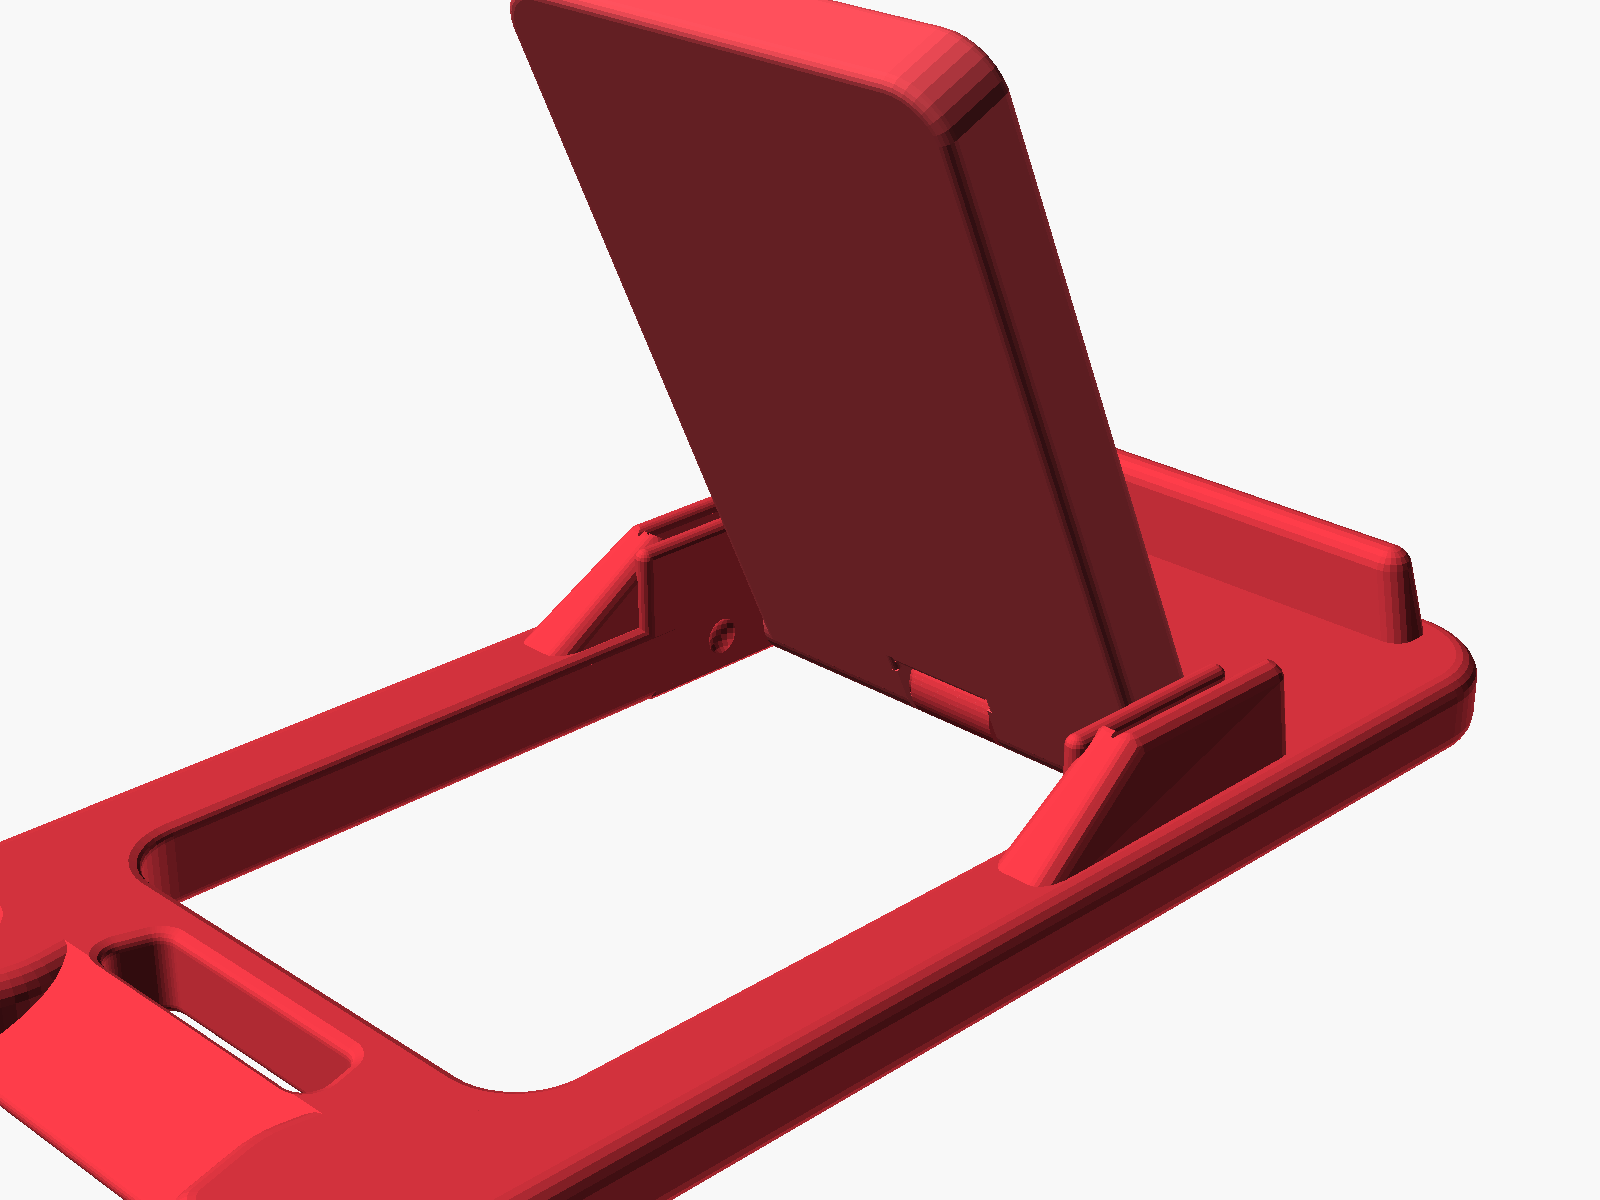
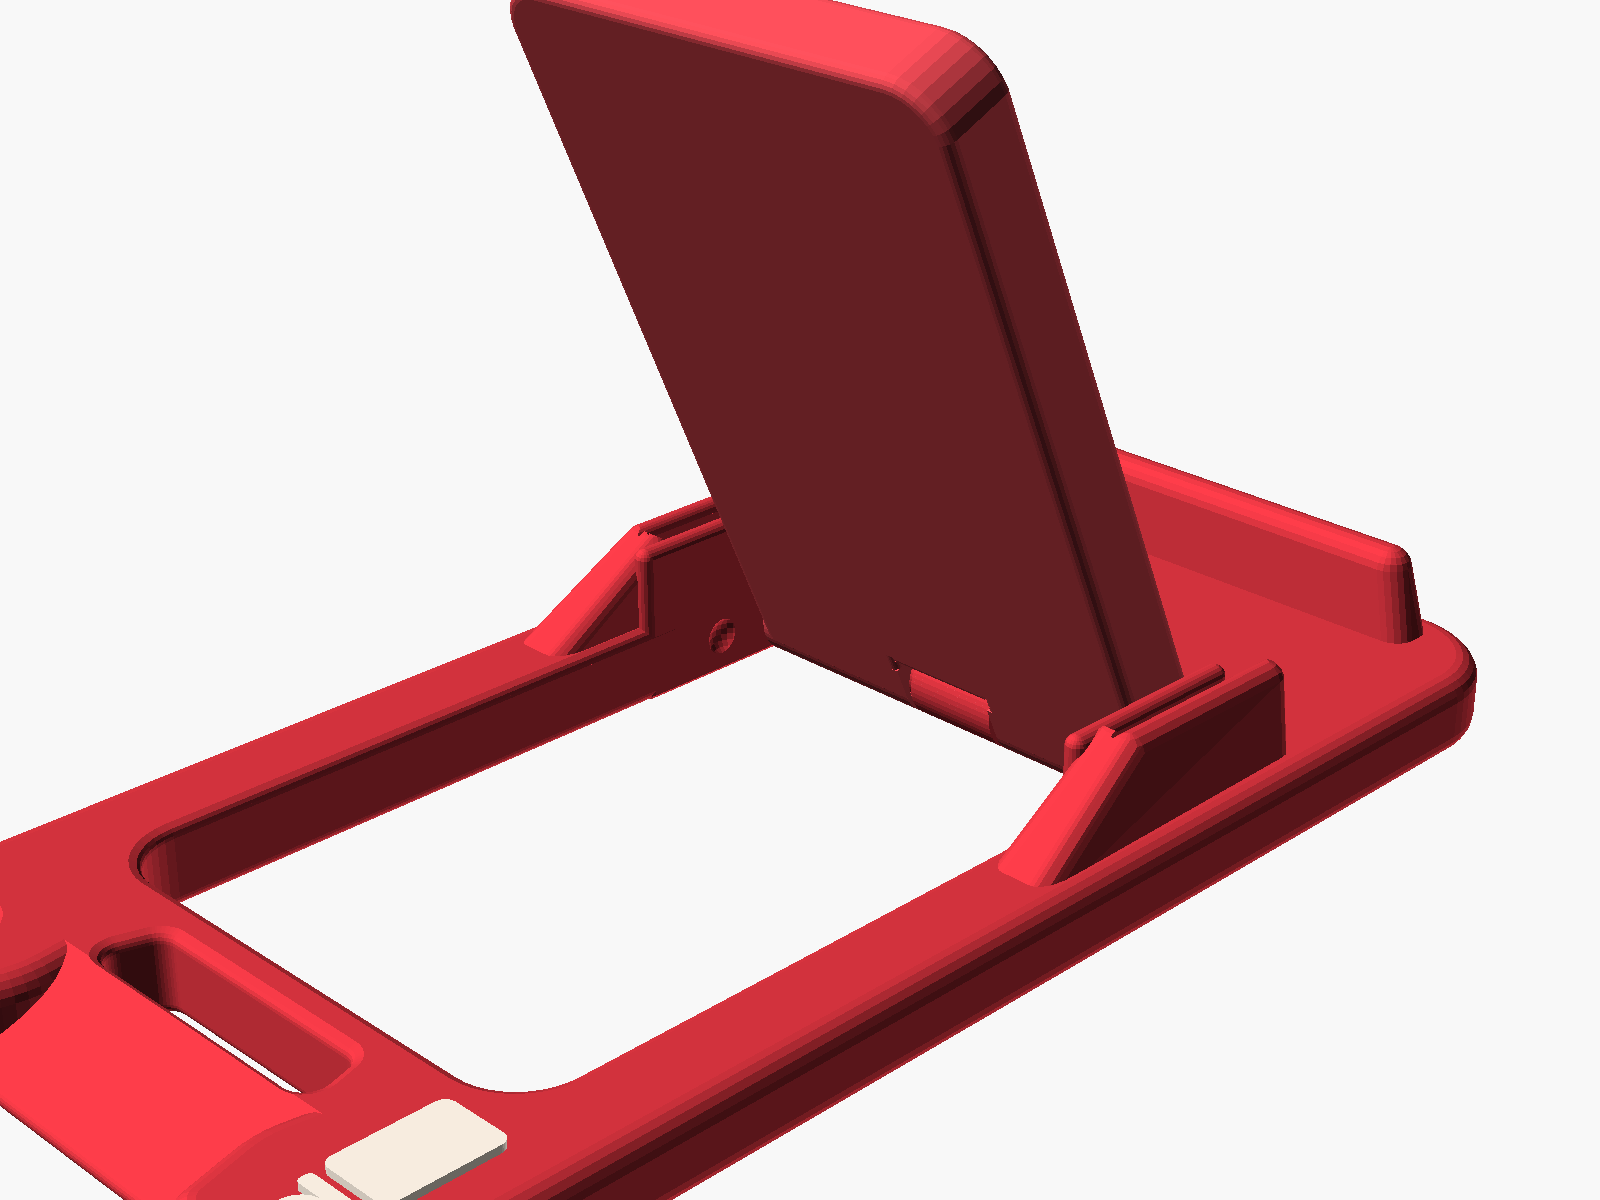
Fixtory_PhoneStandKey_V2.1: ไอคอนกระป๋องนูน 0.4 ข้างช่องเกี่ยวห่วง (อยู่ในบอดี้ลาย สีที่ 2)
ไม่มี STL/3MF ใน repo

Claude-Session: https://claude.ai/code/session_019RUqrcXEUTZR4sTwdM5iUX

Changed region(s): [[0.1562, 0.8942, 0.3125, 1.0]]

diff --git a/ref/phonestand-v2/README.md b/ref/phonestand-v2/README.md
@@ -1,4 +1,4 @@
-# Fixtory_PhoneStandKey_V2 — ลบเหลี่ยมคมทั้งตัว (ห้อยพวงกุญแจ/ใส่กระเป๋าแล้วไม่บาด)
+# Fixtory_PhoneStandKey_V2 (V2.1) — ลบเหลี่ยมคมทั้งตัว + ไอคอนที่เปิดกระป๋อง
 
 แบบของ Fixtory Studio เอง (Fixtory Design · 13 พ.ย. 2026) แก้จากโค้ด V1 (`ref/phonestand-v1`)
 ตามที่ AU กังวลหลังดูผลสไลซ์ V1 ว่า "มีเหลี่ยมโผล่มา เวลาห้อย มันจะบาดเนื้อไหม"
@@ -18,6 +18,7 @@
 | ช่องเกี่ยวห่วง | เหลี่ยม | มุมมน r 1 · ขอบบน/ล่างมน r 0.6 |
 | ขอบหน้าต่าง + รูพวงกุญแจ | คม | **มน r 0.6** บนและล่าง (มากกว่าลบมุม 0.4–0.6 ที่ขอ) |
 | แผ่นพิง | กล่องเหลี่ยม | ขอบมน r 0.6 · มุมปลาย r 3 · ลายจำกัดอยู่บนหน้าเรียบ |
+| **V2.1** ไอคอนที่เปิดกระป๋อง | — | ไอคอนกระป๋อง + ฝา + ห่วงดึง **นูน 0.4** บนขาท้ายด้าน −y ข้างช่องเกี่ยวห่วง (ขนาด ~10×4.2 มม. เส้น/ช่องว่าง ≥0.6) อยู่ใน**ไฟล์ relief (สีที่ 2)** · ฝาหันไปทางปลายลิ่ม · ปิดได้ `CAN_ICON = false` |
 | ใต้ตัวช่วงบานพับ | ผนังโค้งบางเป็นคม ~34° | เปิดเป็นผนังตั้ง + ขอบล่างมน r 0.6 · ลิ้นกลาง/ขอบช่องกลางแผ่นพิงมน r 0.4 |
 
 **คงเดิม:** พิมพ์ทีเดียวจบ (เผื่อ 0.4) · ล็อก 66° + หยุดชน ~68° (ขอบหยุดชนที่ร่องหมุนด้านบนคงเดิมจาก V1 — อยู่ในร่องใต้แผ่นพิง) ·
@@ -48,4 +49,4 @@
 ## ไฟล์
 - `Fixtory_PhoneStandKey_V2.scad` — โค้ดโมเดล
 - `export_all.py` — export STL ทุกไซซ์/ลาย หรือชื่อลูกค้า
-- `render/` — ภาพเรนเดอร์: ภาพรวม · กางวางมือถือ · มุมใกล้ (ขอบ/มุม/ขอบหน้า · เสาตอนกาง หน้า+หลัง · ที่เปิดกระป๋อง บน+ล่าง · รูพวงกุญแจ/หน้าต่าง) · ด้านข้าง
+- `render/` — ภาพเรนเดอร์: ภาพรวม · กางวางมือถือ · มุมใกล้ (ขอบ/มุม/ขอบหน้า · เสาตอนกาง หน้า+หลัง · ที่เปิดกระป๋อง บน+ล่าง · รูพวงกุญแจ/หน้าต่าง · ไอคอนกระป๋อง V2.1) · ด้านข้าง
